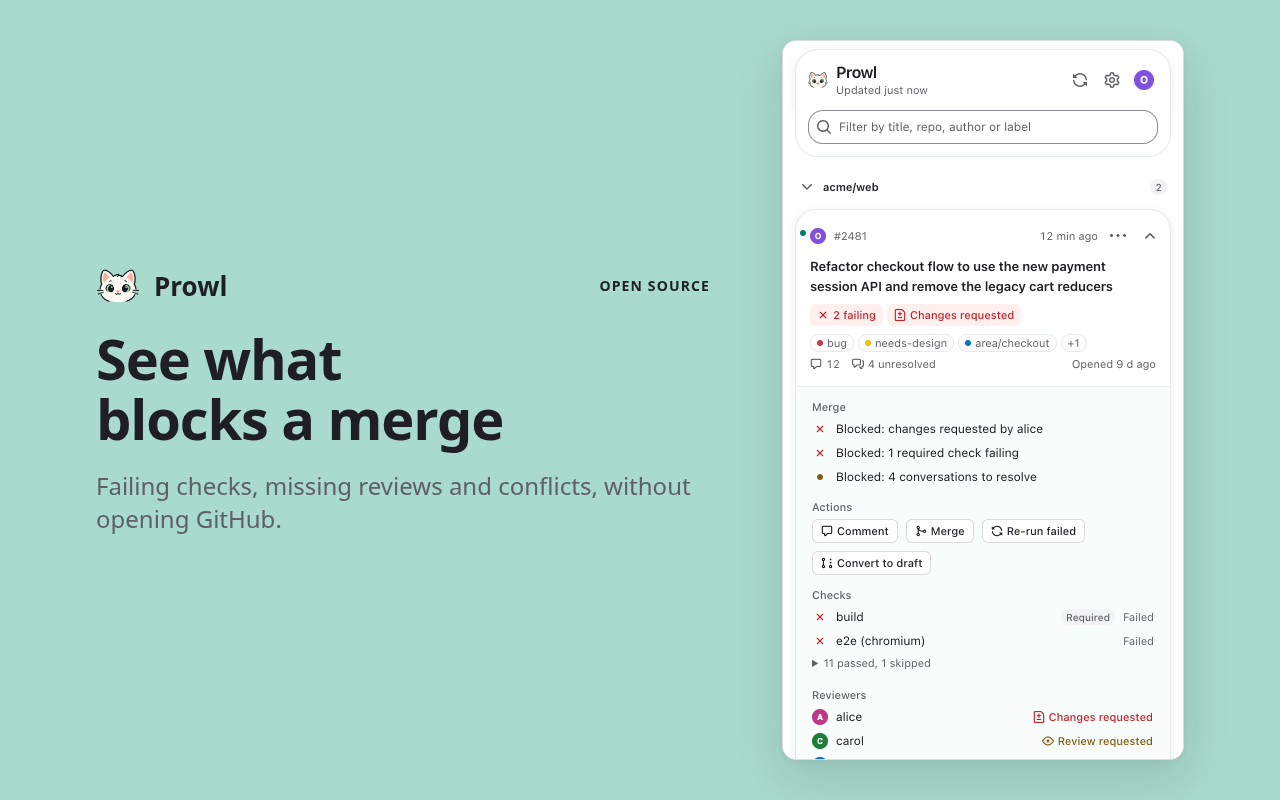
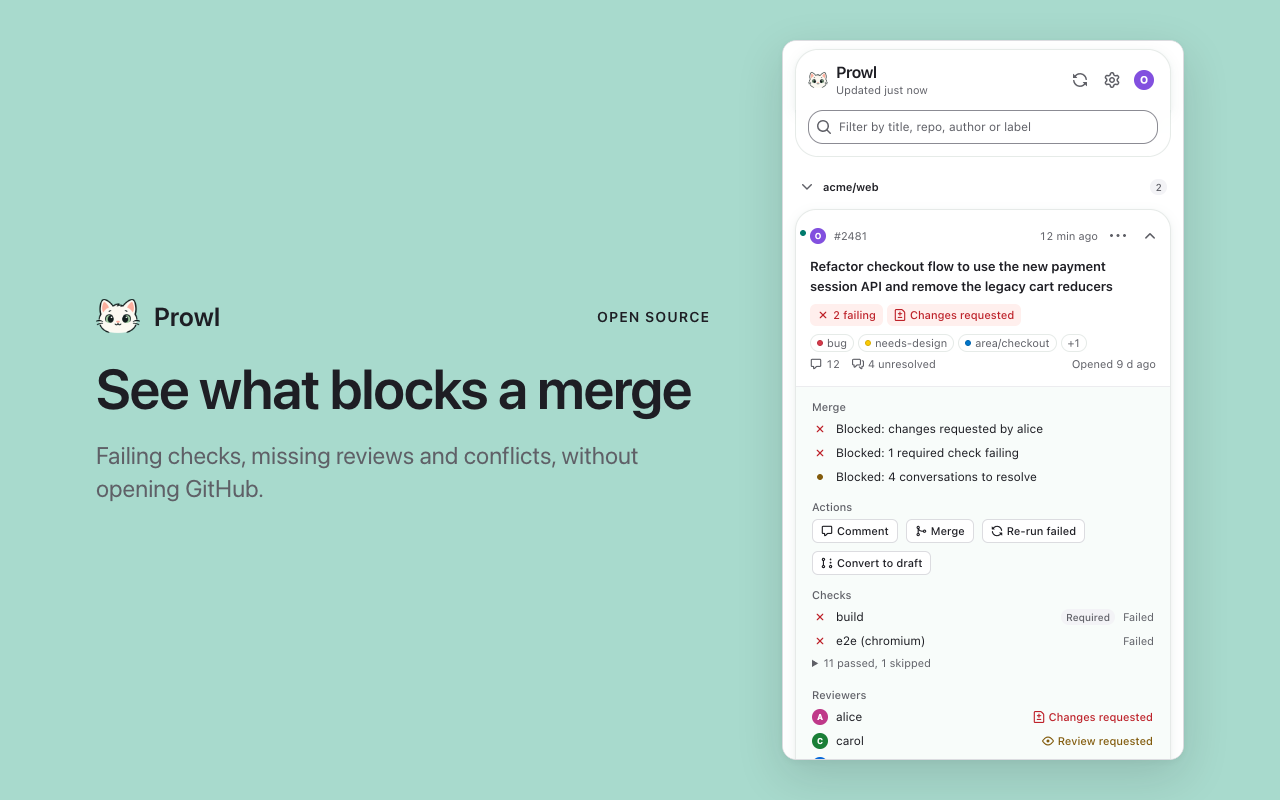
docs(store): limit artwork changes to the marquee
Keep only docs/store/promo-marquee.png changed against the PR base. Restore all other images, the generator and documentation byte-for-byte, and remove the extra reference capture.

Preserve the original #A8DACD green and original 44px brand, 30px description and 20px trust text. Render the product preview at its original 400px CSS width.

Validation: exactly one changed file against the PR base; other files match the base blobs. Marquee visually checked at 1400x560, opaque RGB, with no clipped text.

Changed region(s): [[0.0625, 0.3438, 0.5625, 0.6562], [0.4688, 0.3438, 0.5625, 0.4062]]

diff --git a/docs/chrome-web-store.md b/docs/chrome-web-store.md
@@ -77,11 +77,6 @@ The API cannot create items, so the first version is uploaded in the
      `screenshot-5-sign-in.png`. Small promo tile: `docs/store/promo-small.png`. Marquee:
      `docs/store/promo-marquee.png`. `pnpm store-images` rebuilds them from `docs/screenshots/`
      (run `pnpm screenshots` first when the UI changed).
-     Layouts and text are HTML/CSS in `scripts/store-images.mjs`, preserving the original green
-     `--color-brand-mint` token and `docs/brand/prowl-logo-transparent.png`. The marquee uses the
-     committed `list-ready.png` reference capture; its preview crops one screenshot, without
-     rotating or rearranging UI elements. Refresh that reference image separately when the
-     panel UI changes: `pnpm screenshots` does not overwrite it.
    - Homepage: <https://aemard.github.io/prowl/>. Support: <https://github.com/aemard/prowl/issues>.
 4. **Privacy**
    - Single purpose: "Show the user's GitHub pull requests and their status in the side panel,
